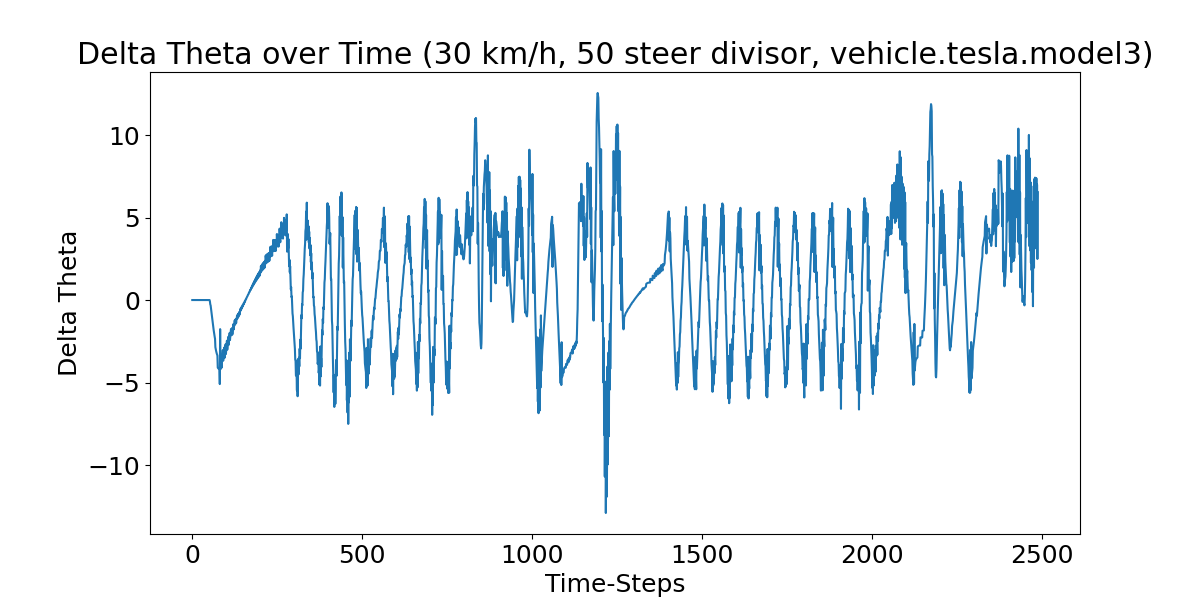
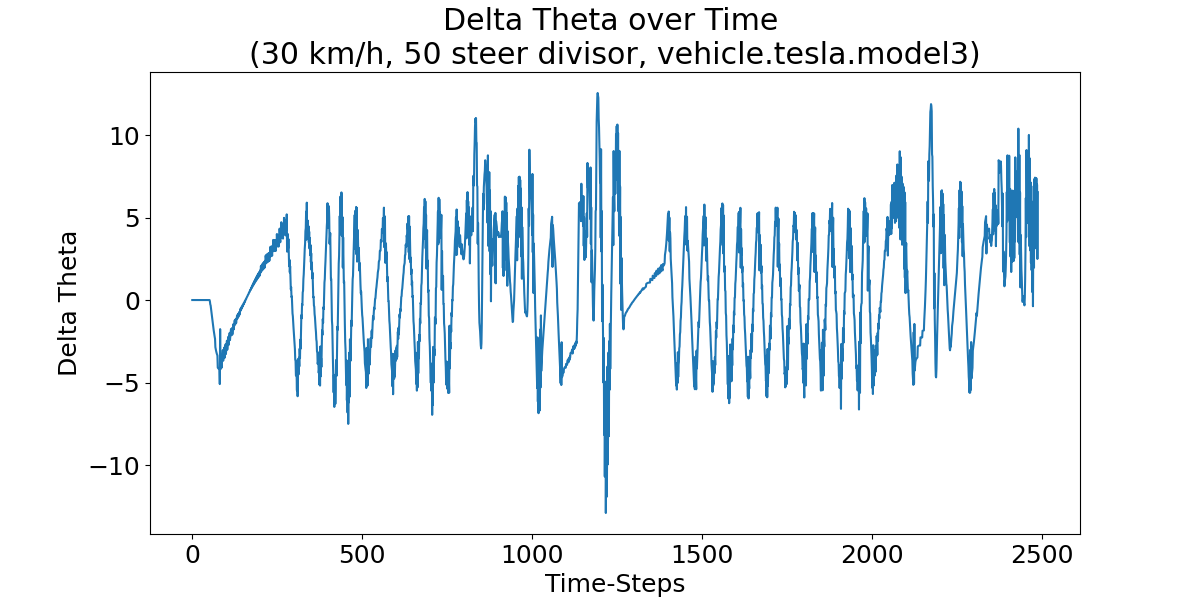
rerun 30 and 80; new axis labels

Changed region(s): [[0.0617, 0.0, 0.9558, 0.12]]

diff --git a/run/2024_03_21_25rl.py b/run/2024_03_21_25rl.py
@@ -216,14 +216,14 @@ def main():
         fig_distancePredToPath, ax0 = plt.subplots(figsize=(12,6))
         ax0.autoscale_view('tight')
         ax0.set_xlabel('Time-Steps')
-        ax0.set_ylabel('Distance from Predicted Location to Path')
-        ax0.set_title(f'Distance of Deviation From Path ({TARGET_SPEED} km/h, {args.steerDivisor} steer divisor, {args.vehicle})')
+        ax0.set_ylabel('Distance from Predicted \nLocation to Path')
+        ax0.set_title(f'Distance of Deviation From Path \n({TARGET_SPEED} km/h, {args.steerDivisor} steer divisor, {args.vehicle})')
         fig_deltaTheta, ax1 = plt.subplots(figsize=(12, 6))
         ax1.set_xlabel('Time-Steps')
         # ax1.set_ylabel('Delta Y')
         ax1.set_ylabel('Delta Theta')
         # ax1.set_title('Delta Y over Time')
-        ax1.set_title(f'Delta Theta over Time ({TARGET_SPEED} km/h, {args.steerDivisor} steer divisor, {args.vehicle})')
+        ax1.set_title(f'Delta Theta over Time \n({TARGET_SPEED} km/h, {args.steerDivisor} steer divisor, {args.vehicle})')
         # Plot setup for overlay
         fig_overlay, ax2 = plt.subplots(figsize=(12, 6))  # Adjust the figsize as needed
         # leg = ax2.legend()

diff --git a/run/2024_04_04_26_parent_rl.py b/run/2024_04_04_26_parent_rl.py
@@ -10,7 +10,8 @@ for speed in [80,30]:
     print(f'START SPEED {speed}')
     # for steeringDivisor in range(25,201,25):
     for vehicle in ['vehicle.tesla.model3', 
-    'vehicle.ford.crown', 'vehicle.ford.ambulance']:
+    # 'vehicle.ford.crown', 'vehicle.ford.ambulance'
+    ]:
         print('--------------------------------------------------')    
         strRunLabel = f'run for (1) target speed {speed}, '+ \
             f'(2) vehicle {vehicle}'

diff --git a/timeline/README.md b/timeline/README.md
@@ -978,5 +978,5 @@ no water-cooled CPU; air-cooled CPU; no disk drive; minimum GPU memory of 8 GB
 ```
 4/10/2024 1:51 PM: command
 ```
-python -u run/2024_04_04_26_parent_rl.py | tee out.txt
+python run/2024_02_19_19town.py && python -u run/2024_04_04_26_parent_rl.py | tee out.txt
 ```
